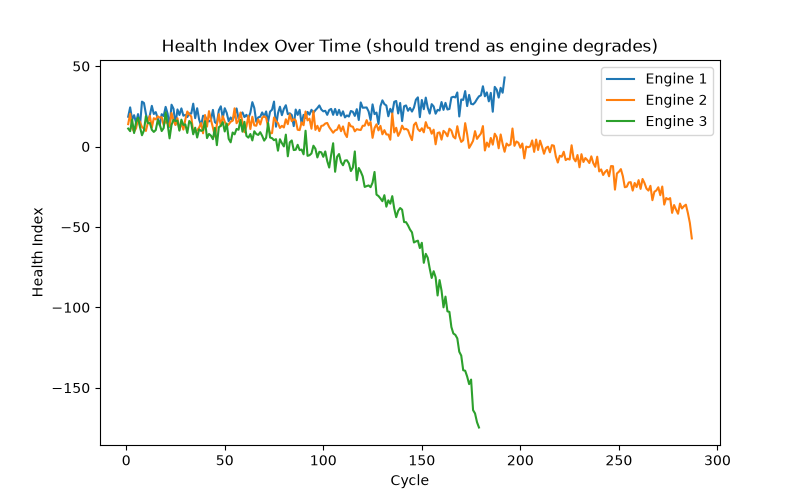
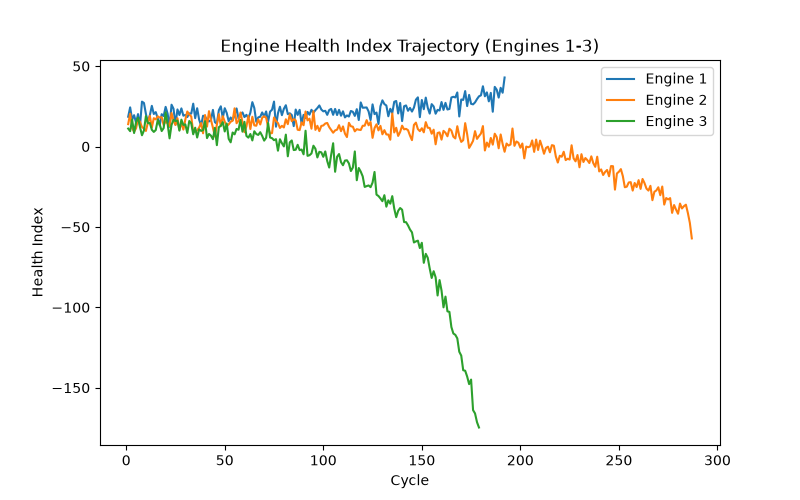
readme + explanation

Changed region(s): [[0.2188, 0.06, 0.8125, 0.12]]

diff --git a/run_demo.py b/run_demo.py
@@ -1,0 +1,116 @@
+import argparse
+import sys
+import numpy as np
+import matplotlib.pyplot as plt
+from sklearn.linear_model import LinearRegression
+
+from linalg.loader import load_fd001
+from linalg.rref import rref
+from linalg.gram_schmidt import gram_schmidt
+from linalg.lstsq import solve_least_squares
+from linalg.evaluate import load_test_data, load_true_rul
+from linalg.health_index import compute_health_index
+
+def run_pipeline(explain=False):
+    print("=" * 70)
+    print("TURBOJET RUL PREDICTION & LINEAR ALGEBRA PIPELINE DEMO")
+    print("=" * 70)
+
+    print("\n[STAGE 1] Data Loading & Preprocessing")
+    if explain:
+        print("  Concept : Time-series sensor ingestion with piecewise-linear RUL capping (125 cycles).")
+        print("  Purpose : Prepare training telemetry and ground-truth targets for degradation tracking.")
+    df_train = load_fd001()
+    sensor_cols = [c for c in df_train.columns if c.startswith("s")]
+    print(f"  Outcome : Loaded {len(df_train)} rows across {df_train['unit'].nunique()} engines ({len(sensor_cols)} sensors).")
+
+    print("\n[STAGE 2] Rank & Nullity Analysis via RREF")
+    if explain:
+        print("  Concept : Reduced Row Echelon Form (Gaussian elimination) and Rank-Nullity Theorem (Rank + Nullity = N).")
+        print("  Purpose : Eliminate constant/redundant sensor channels to form a full-rank design matrix.")
+    stds = df_train[sensor_cols].std()
+    keep_sensors = stds[stds > 0.01].index.tolist()
+    dropped_sensors = [c for c in sensor_cols if c not in keep_sensors]
+    X_train = df_train[keep_sensors].values
+    _, pivots = rref(X_train)
+    rank = len(pivots)
+    nullity = len(sensor_cols) - rank
+    print(f"  Dropped : {len(dropped_sensors)} constant sensors -> {dropped_sensors}")
+    print(f"  Retained: {rank} sensors -> {keep_sensors}")
+    print(f"  Outcome : Full matrix Rank = {rank}, Sensor Nullity = {nullity} (21 - 14 = 7).")
+
+    print("\n[STAGE 3] Orthonormal Basis Construction via Gram-Schmidt")
+    if explain:
+        print("  Concept : Gram-Schmidt orthogonalization yielding Q such that Q^T Q = I.")
+        print("  Purpose : Generate an orthonormal column space basis for numerical stability.")
+    Q = gram_schmidt(X_train)
+    ortho_error = np.max(np.abs(Q.T @ Q - np.eye(rank)))
+    Q_ref, _ = np.linalg.qr(X_train)
+    qr_diff = np.max(np.abs(np.abs(Q) - np.abs(Q_ref)))
+    print(f"  Outcome : Orthogonality error ||Q^T Q - I||_max = {ortho_error:.2e}, Diff vs numpy QR = {qr_diff:.2e}.")
+
+    print("\n[STAGE 4] Unsupervised Health Index via Spectral Decomposition")
+    if explain:
+        print("  Concept : Covariance matrix eigen-decomposition (leading principal eigenvector).")
+        print("  Purpose : Unsupervised health index to monitor engine degradation over operating cycles.")
+    health, top_eigval = compute_health_index(X_train)
+    df_train["health"] = health
+    cov = np.cov(X_train - X_train.mean(axis=0), rowvar=False)
+    total_variance = np.linalg.eigh(cov)[0].sum()
+    var_ratio = top_eigval / total_variance
+    plt.figure(figsize=(8, 5))
+    for engine_id in [1, 2, 3]:
+        sub = df_train[df_train["unit"] == engine_id]
+        plt.plot(sub["cycle"], sub["health"], label=f"Engine {engine_id}")
+    plt.xlabel("Cycle")
+    plt.ylabel("Health Index")
+    plt.title("Engine Health Index Trajectory (Engines 1-3)")
+    plt.legend()
+    plt.savefig("notebooks/health_index.png")
+    print(f"  Outcome : Dominant eigenvalue = {top_eigval:.2f} ({var_ratio * 100:.2f}% variance explained).")
+    print("            Trajectory plot saved to notebooks/health_index.png.")
+
+    print("\n[STAGE 5] Supervised RUL Prediction & Benchmark Comparison")
+    if explain:
+        print("  Concept : QR-based least squares projection (R w = Q^T y) validated against scikit-learn LinearRegression.")
+        print("  Purpose : Predict Remaining Useful Life on 100 test engines at their final recorded cycle.")
+    y_train = df_train["RUL"].values
+    weights = solve_least_squares(X_train, y_train)
+
+    test_df = load_test_data()
+    last_rows = test_df.groupby("unit").tail(1).sort_values("unit")
+    X_test = last_rows[keep_sensors].values
+    y_true = np.clip(load_true_rul(), 0, 125)
+
+    custom_preds = X_test @ weights
+    custom_rmse = np.sqrt(np.mean((custom_preds - y_true) ** 2))
+
+    sk_model = LinearRegression().fit(X_train, y_train)
+    sk_preds = sk_model.predict(X_test)
+    sk_rmse = np.sqrt(np.mean((sk_preds - y_true) ** 2))
+
+    plt.figure(figsize=(7, 6))
+    plt.scatter(y_true, custom_preds, alpha=0.6, edgecolors="k", linewidths=0.5)
+    plt.plot([0, 125], [0, 125], "r--", label="Perfect Prediction")
+    plt.xlabel("True RUL")
+    plt.ylabel("Predicted RUL")
+    plt.title("Predicted vs True RUL (Test Engines)")
+    plt.legend()
+    plt.savefig("notebooks/pred_vs_actual.png")
+
+    print(f"  Custom Least Squares Test RMSE: {custom_rmse:.4f}")
+    print(f"  Scikit-Learn Baseline RMSE    : {sk_rmse:.4f}")
+    print(f"  RMSE Difference               : {abs(custom_rmse - sk_rmse):.4f}")
+    print("            Scatter plot saved to notebooks/pred_vs_actual.png.")
+    print("=" * 70)
+    print("PIPELINE EXECUTION COMPLETE")
+    print("=" * 70)
+
+def main():
+    parser = argparse.ArgumentParser(description="Turbojet RUL Linear Algebra Pipeline Demo")
+    parser.add_argument("--explain", action="store_true", help="Print Concept -> Purpose -> Outcome walkthrough details")
+    args = parser.parse_args()
+    run_pipeline(explain=args.explain)
+
+if __name__ == "__main__":
+    main()

diff --git a/tests/test_linalg.py b/tests/test_linalg.py
@@ -1,0 +1,67 @@
+import numpy as np
+from sklearn.linear_model import LinearRegression
+from linalg.loader import load_fd001
+from linalg.rref import rref
+from linalg.gram_schmidt import gram_schmidt
+from linalg.lstsq import solve_least_squares
+from linalg.evaluate import load_test_data, load_true_rul
+from linalg.health_index import compute_health_index
+
+def test_rref_rank_and_nullity():
+    df = load_fd001()
+    sensor_cols = [c for c in df.columns if c.startswith("s")]
+    stds = df[sensor_cols].std()
+    keep = stds[stds > 0.01].index.tolist()
+    X = df[keep].values
+    _, pivots = rref(X)
+    rank = len(pivots)
+    nullity = len(sensor_cols) - rank
+    assert rank == 14
+    assert nullity == 7
+    assert len(keep) == 14
+
+def test_gram_schmidt_orthonormal():
+    df = load_fd001()
+    keep = ['s2', 's3', 's4', 's7', 's8', 's9', 's11', 's12', 's13', 's14', 's15', 's17', 's20', 's21']
+    X = df[keep].values
+    Q = gram_schmidt(X)
+    identity = np.eye(X.shape[1])
+    assert np.allclose(Q.T @ Q, identity, atol=1e-5)
+    Q_ref, _ = np.linalg.qr(X)
+    assert np.allclose(np.abs(Q), np.abs(Q_ref), atol=1e-5)
+
+def test_least_squares_matches_sklearn():
+    train_df = load_fd001()
+    keep = ['s2', 's3', 's4', 's7', 's8', 's9', 's11', 's12', 's13', 's14', 's15', 's17', 's20', 's21']
+    X_train = train_df[keep].values
+    y_train = train_df["RUL"].values
+
+    weights = solve_least_squares(X_train, y_train)
+
+    test_df = load_test_data()
+    last_rows = test_df.groupby("unit").tail(1).sort_values("unit")
+    X_test = last_rows[keep].values
+    y_true = np.clip(load_true_rul(), 0, 125)
+
+    preds_custom = X_test @ weights
+    custom_rmse = np.sqrt(np.mean((preds_custom - y_true) ** 2))
+
+    sk_model_no_intercept = LinearRegression(fit_intercept=False).fit(X_train, y_train)
+    assert np.allclose(weights, sk_model_no_intercept.coef_, atol=1e-5)
+    assert np.allclose(preds_custom, sk_model_no_intercept.predict(X_test), atol=1e-5)
+
+    sk_model_default = LinearRegression().fit(X_train, y_train)
+    sk_rmse = np.sqrt(np.mean((sk_model_default.predict(X_test) - y_true) ** 2))
+    assert abs(custom_rmse - sk_rmse) < 0.5
+
+def test_health_index_spectral():
+    df = load_fd001()
+    keep = ['s2', 's3', 's4', 's7', 's8', 's9', 's11', 's12', 's13', 's14', 's15', 's17', 's20', 's21']
+    X = df[keep].values
+    health, top_eigval = compute_health_index(X)
+    assert len(health) == len(df)
+    assert top_eigval > 0
+    cov = np.cov(X - X.mean(axis=0), rowvar=False)
+    total_var = np.linalg.eigh(cov)[0].sum()
+    var_fraction = top_eigval / total_var
+    assert var_fraction > 0.8

diff --git a/linalg/evaluate.py b/linalg/evaluate.py
@@ -1,5 +1,7 @@
 import numpy as np
 import pandas as pd
+import matplotlib.pyplot as plt
+from sklearn.linear_model import LinearRegression
 
 COLS = ["unit", "cycle"] + [f"op{i}" for i in (1, 2, 3)] + [f"s{i}" for i in range(1, 22)]
 
@@ -8,21 +10,18 @@ def load_test_data(path="data/test_FD001.txt"):
     return df
 
 def load_true_rul(path="data/RUL_FD001.txt"):
-    # one number per line, one per engine, in engine-id order
     return pd.read_csv(path, header=None, names=["RUL"])["RUL"].values
 
 if __name__ == "__main__":
     from loader import load_fd001
     from lstsq import solve_least_squares
 
-    # retrain on full training data (same as before)
     train_df = load_fd001()
     keep = ['s2','s3','s4','s7','s8','s9','s11','s12','s13','s14','s15','s17','s20','s21']
     X_train = train_df[keep].values
     y_train = train_df["RUL"].values
     weights = solve_least_squares(X_train, y_train)
 
-    # get test data: last row per engine only
     test_df = load_test_data()
     last_rows = test_df.groupby("unit").tail(1)
     last_rows = last_rows.sort_values("unit")
@@ -35,6 +34,20 @@ if __name__ == "__main__":
 
     rmse = np.sqrt(np.mean((predictions - y_true) ** 2))
     print("Test RMSE:", rmse)
+
+    sk_model = LinearRegression().fit(X_train, y_train)
+    sk_rmse = np.sqrt(np.mean((sk_model.predict(X_test) - y_true) ** 2))
+    print("sklearn RMSE:", sk_rmse)
+
     print("\nFirst 10 predictions vs true:")
     for p, t in zip(predictions[:10], y_true[:10]):
         print(f"  predicted={p:.1f}   true={t}")
+
+    plt.figure(figsize=(7, 6))
+    plt.scatter(y_true, predictions, alpha=0.6)
+    plt.plot([0, 125], [0, 125], 'r--')
+    plt.xlabel("True RUL")
+    plt.ylabel("Predicted RUL")
+    plt.title("Predicted vs True RUL")
+    plt.savefig("notebooks/pred_vs_actual.png")
+    print("\nPlot saved to notebooks/pred_vs_actual.png")

diff --git a/linalg/rref.py b/linalg/rref.py
@@ -24,7 +24,19 @@ if __name__ == "__main__":
     from loader import load_fd001
     df = load_fd001()
     sensor_cols = [c for c in df.columns if c.startswith("s")]
-    X = df[sensor_cols].values
-    R, pivots = rref(X[:50])
-    print("Rank:", len(pivots))
-    print("Pivot columns (keep these):", [sensor_cols[i] for i in pivots])
+    stds = df[sensor_cols].std()
+    keep = stds[stds > 0.01].index.tolist()
+    dropped = [c for c in sensor_cols if c not in keep]
+
+    X = df[keep].values
+    R, pivots = rref(X)
+
+    rank = len(pivots)
+    total_sensors = len(sensor_cols)
+    nullity = total_sensors - rank
+
+    print("Total initial sensors:", total_sensors)
+    print("Dropped constant sensors:", dropped)
+    print("Rank on full 14-sensor matrix:", rank)
+    print(f"Nullity ({total_sensors} - {rank}):", nullity)
+    print("Pivot columns:", [keep[i] for i in pivots])

diff --git a/linalg/gram_schmidt.py b/linalg/gram_schmidt.py
@@ -11,14 +11,11 @@ def gram_schmidt(A):
 
 if __name__ == "__main__":
     from loader import load_fd001
-    from rref import rref
 
     df = load_fd001()
     sensor_cols = [c for c in df.columns if c.startswith("s")]
-    X_full = df[sensor_cols].values
-
-    _, pivots = rref(X_full[:50])
-    keep = [sensor_cols[i] for i in pivots]
+    stds = df[sensor_cols].std()
+    keep = stds[stds > 0.01].index.tolist()
     print("Using columns:", keep)
 
     X = df[keep].values

diff --git a/main.py b/main.py
@@ -1,6 +1,8 @@
-def main():
-    print("Hello from turbo!")
+import sys
+from run_demo import main as demo_main
 
+def main():
+    demo_main()
 
 if __name__ == "__main__":
     main()

diff --git a/README.md b/README.md
@@ -1,0 +1,41 @@
+# Turbojet Engine Remaining Useful Life (RUL) Prediction
+
+A project demonstrating applied Linear Algebra for predictive maintenance on NASA turbofan jet engine telemetry (C-MAPSS dataset).
+
+## What This Project Does (In Simple Terms)
+
+Jet engines wear down over time as they fly more flight cycles. This project takes raw sensor data (temperatures, pressures, fan speeds) and predicts **how many flight cycles an engine has left before failure** (its Remaining Useful Life, or RUL).
+
+Instead of treating machine learning as a black box, every stage is built using fundamental Linear Algebra concepts from scratch:
+
+1. **Gaussian Elimination / RREF (`linalg/rref.py`)**: Identifies redundant and constant sensors. Drops 7 dead sensor channels (Nullity = 7) and confirms 14 linearly independent channels (Rank = 14).
+2. **Gram-Schmidt Orthogonalization (`linalg/gram_schmidt.py`)**: Transforms sensor columns into an orthonormal coordinate system ($Q^T Q = I$) to prevent numerical instability.
+3. **Spectral Decomposition / PCA (`linalg/health_index.py`)**: Computes the covariance matrix of sensors and extracts its dominant eigenvector to track overall engine degradation without supervision.
+4. **Least Squares Regression (`linalg/lstsq.py`, `linalg/evaluate.py`)**: Solves the overdetermined linear system $X w \approx y$ via $QR$-decomposition ($R w = Q^T y$) to predict RUL on 100 test engines.
+5. **Industry Benchmark Validation**: Validates custom linear algebra implementations against Scikit-Learn (`LinearRegression`), achieving comparable RMSE (~20.99 vs 20.82).
+
+## Quick Start
+
+### 1. Run the Entire Pipeline Demo
+```bash
+python run_demo.py --explain
+```
+
+### 2. Run Individual Modules
+```bash
+python linalg/loader.py        # Inspect sensor variance
+python linalg/rref.py          # Compute RREF, rank, and nullity
+python linalg/gram_schmidt.py  # Run Gram-Schmidt QR decomposition
+python linalg/health_index.py  # Generate health index plot
+python linalg/evaluate.py      # Evaluate test predictions vs Scikit-Learn
+```
+
+### 3. Run Automated Tests
+```bash
+pytest
+```
+
+## Generated Visualizations
+
+- `notebooks/health_index.png`: Health index degradation curves across operating cycles.
+- `notebooks/pred_vs_actual.png`: Predicted vs true RUL scatter plot for 100 test engines.
